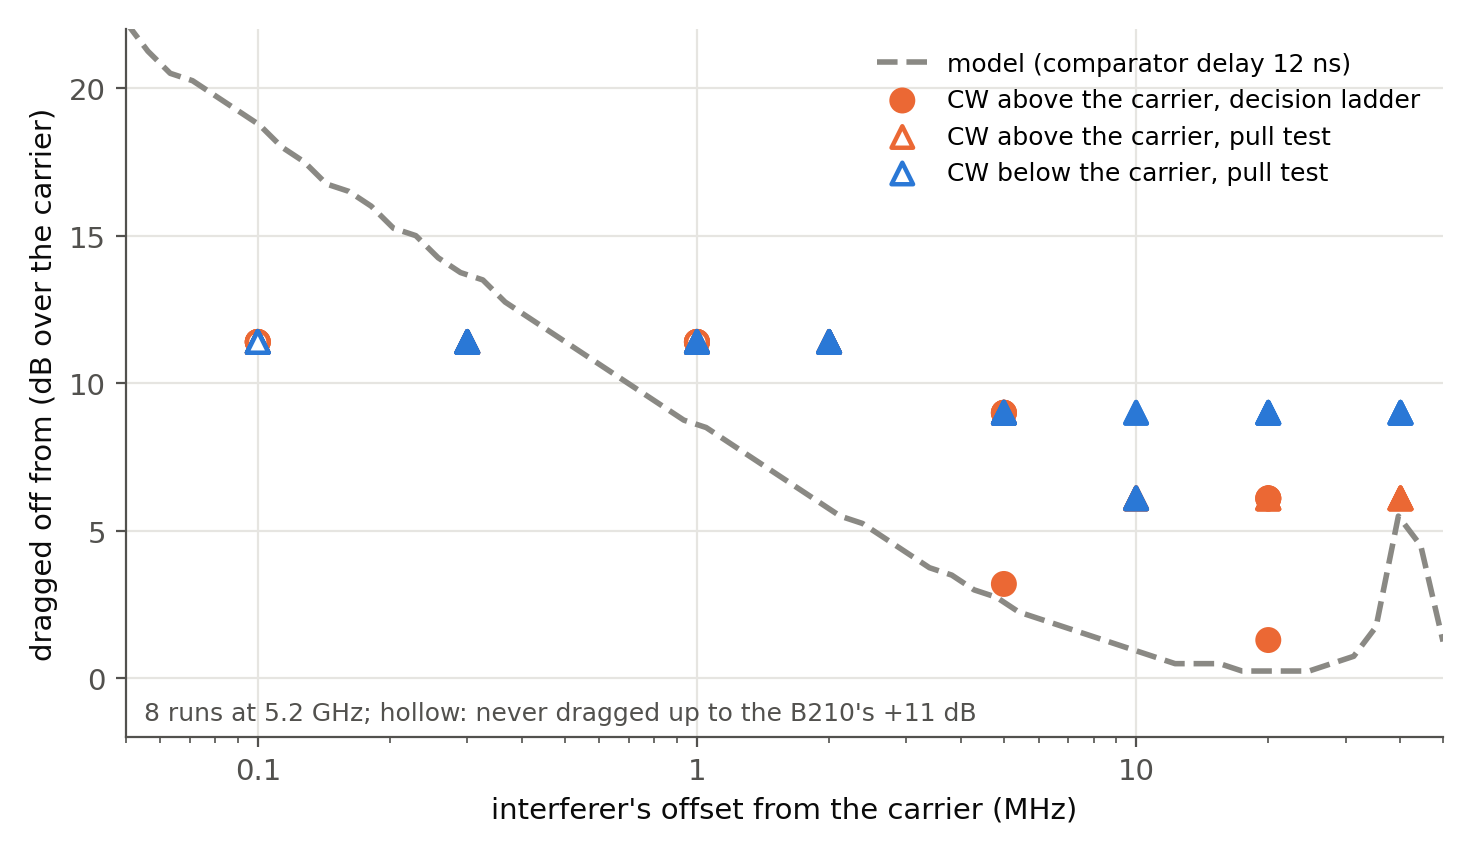
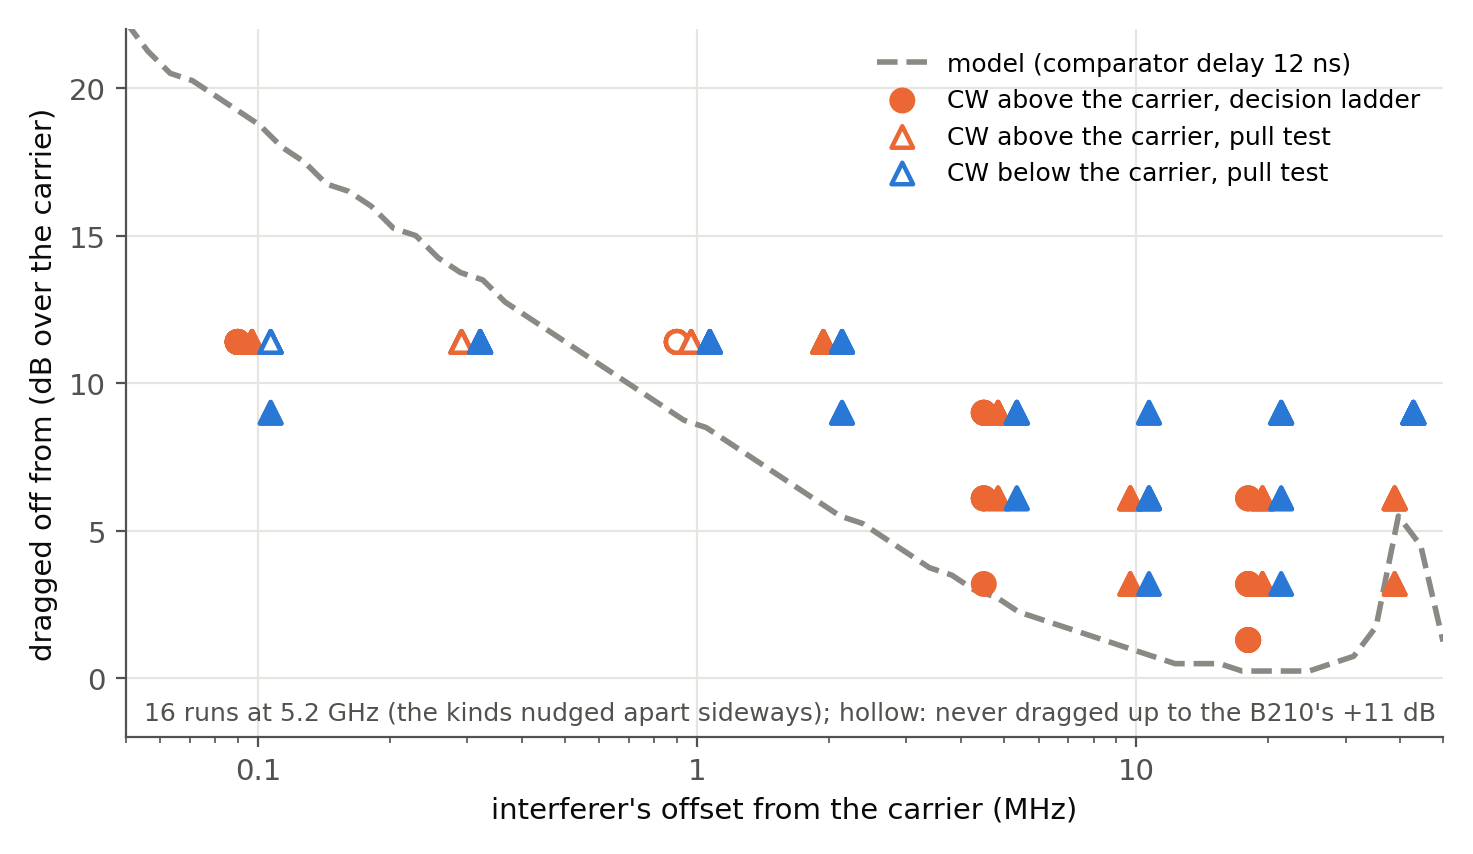
docs/LOCK.md: the drag threshold figure from all 16 of the weekend's 5.2 GHz runs, the kinds of point nudged apart so none hides another; the spread up to 8 dB
Claude-Session: https://claude.ai/code/session_01Uf588E7eM22UugUmA7XoDw

diff --git a/docs/lock_figures.py b/docs/lock_figures.py
@@ -145,12 +145,13 @@ def fig_threshold():
             g = next((g for g, lost in v if lost), None)
             pts.append(("pull", "above" if off > 0 else "below", abs(off), ic_db(g if g else max(gg for gg, _ in v)), g is None))
         runs += 1 if by else 0
+    dodge = {("round", "above"): 0.90, ("pull", "above"): 0.97, ("pull", "below"): 1.07}    # apart, on the log axis
     for side, color in (("above", ORANGE), ("below", BLUE)):
         for setn, marker, lab in (("round", "o", "decision ladder"), ("pull", "^", "pull test")):
             p = [q for q in pts if q[0] == setn and q[1] == side]
             if not p:
                 continue
-            ax.scatter([q[2] for q in p], [q[3] for q in p], marker=marker, s=60, zorder=3,
+            ax.scatter([q[2] * dodge.get((setn, side), 1.0) for q in p], [q[3] for q in p], marker=marker, s=60, zorder=3,
                        facecolors=[("white" if q[4] else color) for q in p], edgecolors=color, linewidths=1.6,
                        label="CW %s the carrier, %s" % (side, lab))
     ax.set_xscale("log")
@@ -160,7 +161,8 @@ def fig_threshold():
     ax.set_ylim(-2, 22)
     ax.set_xlabel("interferer's offset from the carrier (MHz)")
     ax.set_ylabel("dragged off from (dB over the carrier)")
-    ax.text(0.055, -1.4, "%d runs at 5.2 GHz; hollow: never dragged up to the B210's +11 dB" % runs, fontsize=9, color=INK2)
+    ax.text(0.055, -1.4, "%d runs at 5.2 GHz (the kinds nudged apart sideways); hollow: never dragged up to the B210's +11 dB"
+            % runs, fontsize=9, color=INK2)
     ax.legend(loc="upper right", fontsize=9)
     save(fig, "lock_threshold")
 

diff --git a/docs/LOCK.md b/docs/LOCK.md
@@ -145,8 +145,8 @@ while the CW was on (`weekend.py decide` and `pull`: the USRP B210 sending a CW 
 *The interferer-to-carrier ratio at which the loop is dragged off, against the interferer's offset. Grey: the model.
 Points: the bench at 5.2 GHz, orange for a CW above the carrier, blue for one below; hollow points never dragged up
 to the B210's maximum (+11 dB), so their threshold is higher. Levels carry about ±3 dB from the B210's calibration
-(BRINGUP_LOG 4.0), and runs at different times and receiver attenuations (DSA 13.75 and 17.75) differ by up to 5 dB
-at the same offset; the model, with its one parameter (the 12 ns delay, from the measured edge, not fitted), sits on
+(BRINGUP_LOG 4.0), and runs at different times and receiver attenuations (DSA 13.75 to 17.75, the weekend's rounds)
+differ by up to 8 dB at the same offset; the model, with its one parameter (the 12 ns delay, from the measured edge, not fitted), sits on
 the vulnerable edge of the spread.*
 
 What to take from it:
